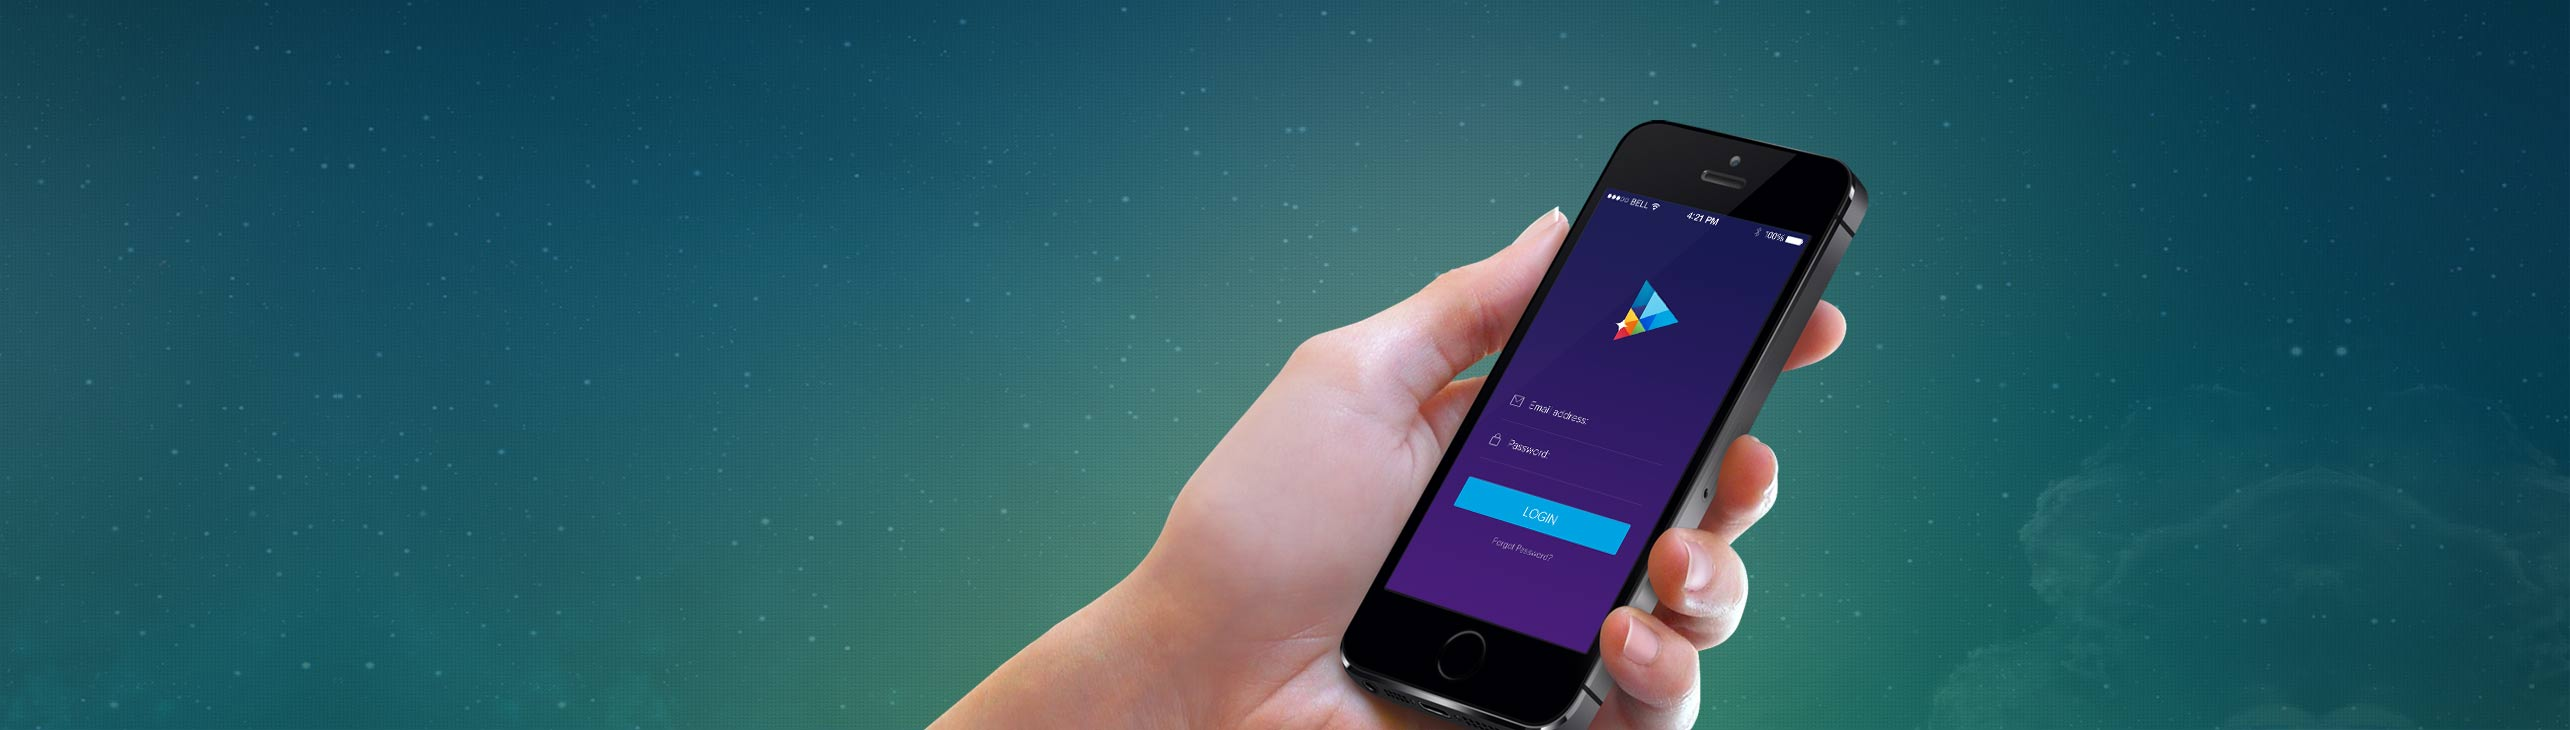
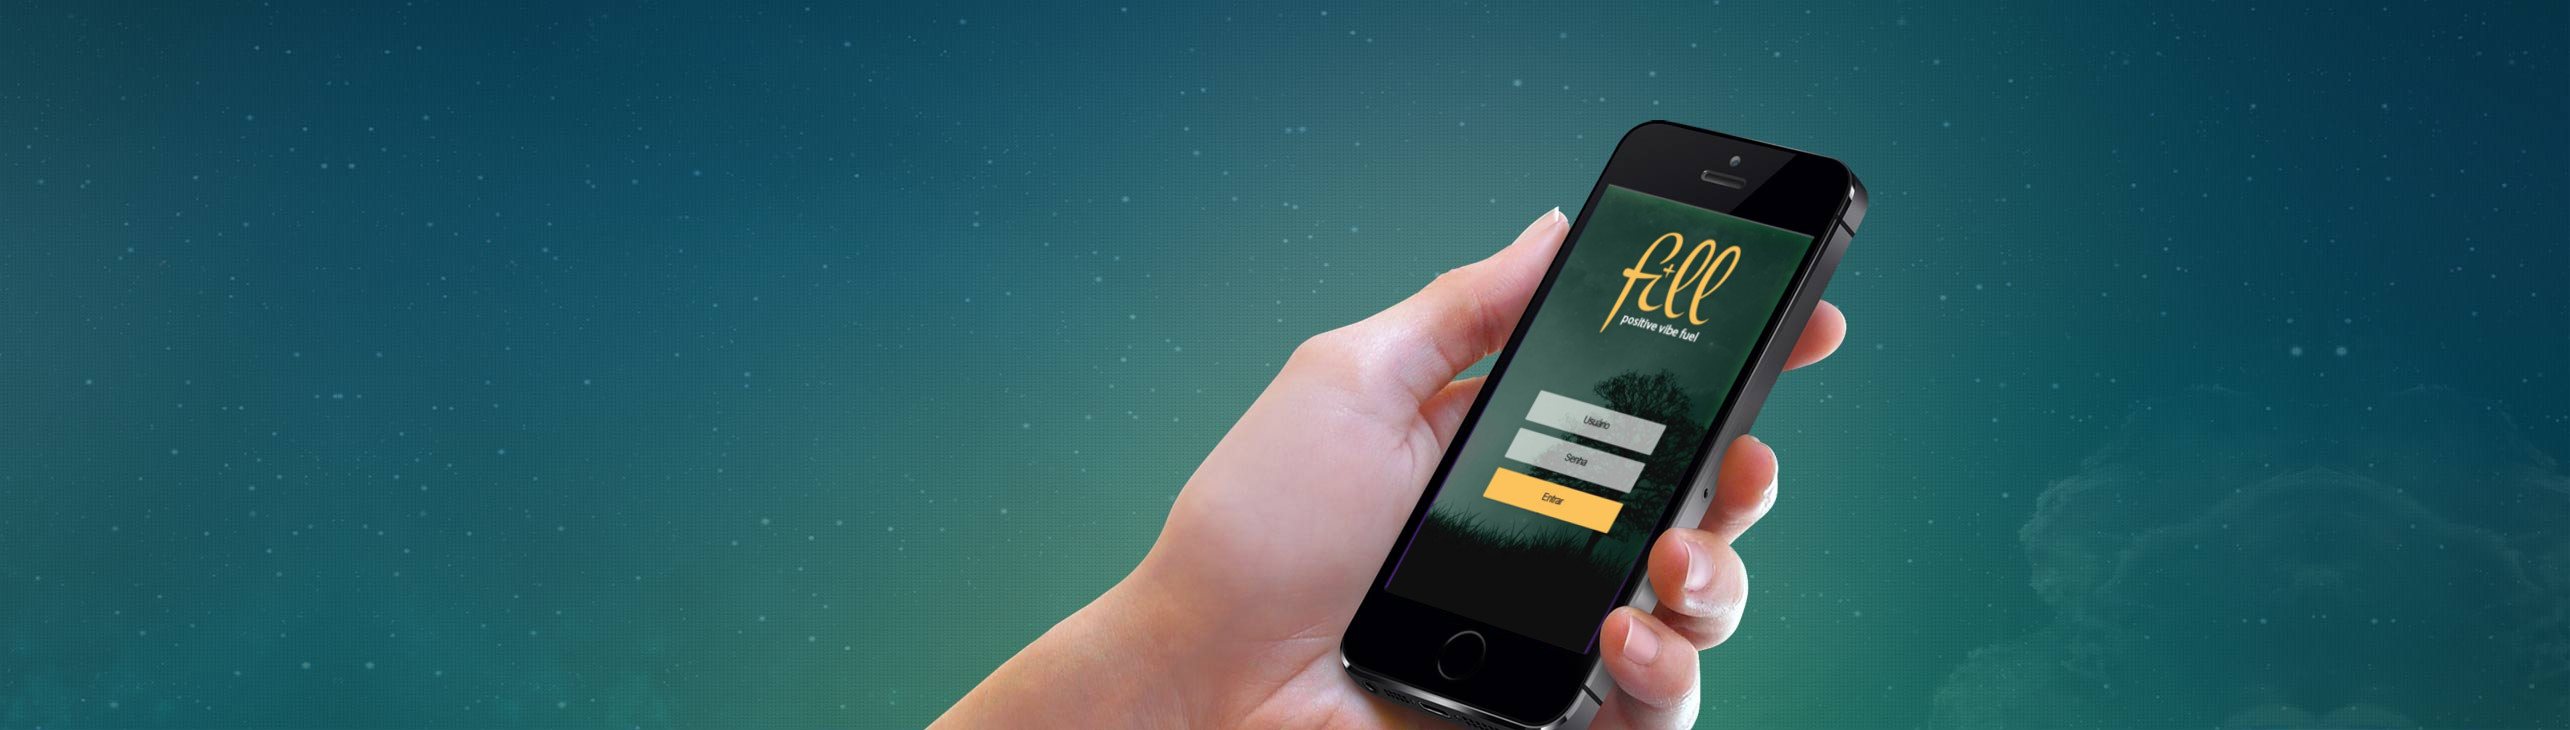
second commit, update of the index.html file

Changed region(s): [[0.5292, 0.2411, 0.716, 0.9041]]

diff --git a/index.html b/index.html
@@ -61,7 +61,7 @@
 								  <ul class="nav navbar-nav navbar">
 									<li class="active"><a href="#">Home <span class="sr-only">(current)</span></a></li>
 									<li><a href="#service">Features</a></li>
-									<li><a href="#">Screenshot</a></li>
+									<li><a href="#">Video</a></li>
 									<li><a href="#">Gallery</a></li>
 								  </ul>
 								</div><!-- /.navbar-collapse -->
@@ -94,11 +94,11 @@
                         <div class="block">
                             <div class="slider-text-area">
                                 <div class="slider-text">
-                                    <h2>Perfect app landing page <br></h2>
-                                    <p class="sub-slider-text">Duis bibendum diam</p>
-                                    <p class="slider-p">Donec elementum mollis magna id aliquet. Etiam eleifend urna eget sem <br>
-                                    sagittis feugiat. Pellentesque habitant morbi tristique senectus et <br>
-                                    netus et malesuada fames ac turpis egestas.</p>
+                                    <h2>Fill <br></h2>
+                                    <p class="sub-slider-text">Positive vibe fuel</p>
+                                    <p class="slider-p">A social network with a different concept, a social network where people go to help <br>
+                                    and be helped, without any judgement or prejudice, no one is there to bring you down, <br>
+                                    or to try to prove that is better than you.</p>
                                     <button type="button" class="btn btn-default edit-button-1">DOWNLOAD</button>
                                 </div>
                             </div>
@@ -117,8 +117,9 @@
                     <div class="col-md-12">
                         <div class="block-top">
                             <div class="service-header">
-                                <h1>Heading Feature title goes here</h1>
-                                <p>Duis bibendum diam non erat facilaisis tincidunt. Fusce leo neque, lacinia at tempor vitae, porta at arcu. <br /> Vestibulum varius non dui at pulvinar. Ut egestas orci in quam sollicitudin aliquet.</p>
+                                <h1>Your daily dose of good vibe's fuel</h1>
+                                <p>A particular set of features, features that make this app essencial for people like you. <br />
+                                  People with a positive attitude about life and willing to share with others.</p>
                             </div>
                         </div>
                     </div><!-- .col-md-12 close -->
@@ -170,15 +171,15 @@
 										<div class="teb-icon-edit">
 											<i class="fa fa-th-list"></i>
 										</div>
-										<h1>Heading Feature title goes here</h1>
-										<p>Nunc accumsan hendrerit nunc, ac venenatis magna facilisis quis. Ut sit amet mi ac <br /> neque sodales facilisis. Nullam tempus fermentum lorem nec interdum. Ut id <br /> orci id sapien imperdiet vehicula. Etiam quis dignissim ante. Donec convallis tincidunt <br /> ligula, ac luctus mi interdum a.</p>
+										<h1>Keep it up with your network</h1>
+										<p>Follow your friends updates, root for them, help them to build a better self. <br /> You can also receive suggestions of content to read, share and discuss <br /> Always in a safe and positive environment. </p>
 									</div>
 									<div class="tab-pane edit-tab" id="share">
 										<div class="teb-icon-edit">
 											<i class="fa  fa-video-camera"></i>
                     </div>
-										<h1>Heading Feature title goes here</h1>
-										<p>Nunc accumsan hendrerit nunc, ac venenatis magna facilisis quis. Ut sit amet mi ac <br /> neque sodales facilisis. Nullam tempus fermentum lorem nec interdum. Ut id <br /> orci id sapien imperdiet vehicula. Etiam quis dignissim ante. Donec convallis tincidunt <br /> ligula, ac luctus mi interdum a.</p>
+										<h1>Life is better when shared</h1>
+										<p>Isn't great to share your moments with people that actually will care about it? <br /> Here at Fill you are welcome to share your moments, wheter good or bad <br /> We will make sure that only the comments that matters will get to you. <br /> No fear, no intimidation, no prejudice, no bullying, remember, safe environment!.</p>
 									</div>
 									<div class="tab-pane edit-tab" id="bookmarks">
 										<div class="teb-icon-edit">
@@ -241,10 +242,10 @@
                         <div class="block-left">
                             <div class="contant-1-text-area">
                                 <div class="contant-1-head">
-                                    <h1>Onec ultrices ultricies tellus <br> perfect screens here</h1>
+                                    <h1>AQUI VAI O VIDEO!!!! <br> perfect screens here</h1>
                                 </div>
                                 <div class="contant-1-text">
-                                    <h2>Duis bibendum diam non <br> erat facilisis tincidunt.</h2>
+                                    <h2>TODO <br> descobrir como colocar video no html5</h2>
                                     <p>Duis bibendum diam non erat facilaisis tincidunt. Fusce leo <br /> neque, lacinia at tempor vitae, porta at arcu. Vestibulum <br /> varius non dui at pulvinar. Ut egestas orci in quam <br /> sollicitudin aliquet. </p>
                                     <button type="button" class="btn btn-default edit-button-2">LEARN MORE</button>
                                 </div>
@@ -360,37 +361,6 @@
         </section><!-- #gallery close -->
 
 
-        <!-- Contant-2 Start
-        =============================================================== -->
-
-        <section id="contant-2">
-            <div class="container">
-                <div class="row">
-                    <div class="col-md-6">
-                        <div class="block-left">
-                            <div class="contant-2-img">
-                                <img src="img/mobile-phon-3.png" alt="img">
-                            </div>
-                        </div>
-                    </div><!-- .col-md-6 close -->
-
-                    <div class="col-md-6">
-                        <div class="block-right">
-                            <div class="contant-2-text-area">
-                                <div class="contant-2-header">
-                                    <h1>Onec ultrices ultricies tellus<br> perfect screens here</h2>
-                                </div>
-                                <div class="contant-2-text">
-                                   <h2>Duis bibendum diam non <br> erat facilisis tincidunt.</h3>
-                                   <p>Duis bibendum diam non erat facilaisis tincidunt. Fusce leo neque, lacinia at tempor vitae, porta at arcu. Vestibulum varius non dui at pulvinar. Ut egestas orci in quam sollicitudin aliquet. </p>
-                                   <button type="button" class="btn btn-default edit-button-3">LEARN MORE</button>
-                                </div>
-                            </div>
-                        </div>
-                    </div><!-- .col-md-6 close -->
-                </div><!-- .row close -->
-            </div><!-- .container close -->
-        </section><!-- #contant-2 close -->
 
         <!-- testimonial Start
         ============================================================= -->
@@ -451,12 +421,12 @@
                             <div class="submit-contant">
                                 <div class="submit-header">
 									<i class="fa fa-envelope-o"></i>
-                                    <h3>Subscribe our Newsletter</h3>
+                                    <h3>Be the first to receive the good vibes!</h3>
                                 </div>
 								<div class="submit-area">
 									<div class="submit-bottom">
 										<form action="">
-											<input type="text" placeholder="your email address">
+											<input type="text" placeholder="your awesome email">
 											<input type="submit" value="submit">
 										</form>
 									</div>
@@ -481,9 +451,6 @@
                                 <h3>Say Hi, Get In Touch</h3>
                                 <div class="social-icon">
                                     <a href="#"><i class="fa fa-facebook"></i></a>
-                                    <a href="#"><i class="fa fa-tumblr"></i></a>
-                                    <a href="#"><i class="fa fa-google"></i></a>
-                                    <a href="#"><i class="fa fa-flickr"></i></a>
                                     <a href="#"><i class="fa fa-youtube"></i></a>
                                 </div>
                                 <div class="support-link">
